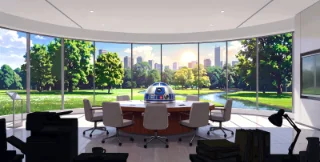
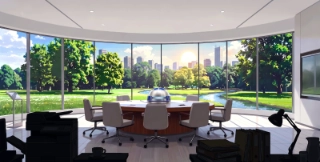
Update items rooms

Changed region(s): [[0.4375, 0.4938, 0.5625, 0.679]]

diff --git a/src/config.ts b/src/config.ts
@@ -76,15 +76,15 @@ export type ItemDef = { x: number; y: number; z: number; width: number };
 export const OFFICE_ITEMS: Record<string, ItemDef> = {
   office_phone: { x: -2.45, y: -0.92, z: 4.85, width: 1.1 },
   office_books: { x: -1.5, y: -0.89, z: 4.85, width: 1 },
-  office_computer: { x: 1.85, y: -0.85, z: 4.85, width: 1.4 },
+  office_computer: { x: 1.8, y: -0.825, z: 4.85, width: 1.45 },
 };
 
 export const BREAK_ITEMS: Record<string, ItemDef> = {
-  break_dvd: { x: -1.65, y: -3.35, z: 4.85, width: 1.2 },
+  break_dvd: { x: -1.65, y: -3.4, z: 4.85, width: 1.2 },
   break_books: { x: 2.45, y: -2.43, z: 4.85, width: 1 },
   break_console: { x: 0.15, y: -2.465, z: 4.85, width: 1 },
 };
 
 export const MEETING_ITEMS: Record<string, ItemDef> = {
-  meeting_robot: { x: -0.025, y: -0.925, z: 4.85, width: 2 },
+  meeting_robot: { x: -0.06, y: -1.09, z: 4.85, width: 1.5 },
 };

diff --git a/src/components/main/overlay/RoomThumbnails.module.css b/src/components/main/overlay/RoomThumbnails.module.css
@@ -3,12 +3,12 @@
   left: 0;
   right: 0;
   top: 30px;
-  z-index: 50;
   display: flex;
   justify-content: center;
   gap: 30px;
   perspective: 800px;
   transition: transform 200ms ease-in-out;
+  z-index: 60;
 }
 
 .hidden {

diff --git a/src/components/main/overlay/UiOverlay.module.css b/src/components/main/overlay/UiOverlay.module.css
@@ -2,8 +2,8 @@
   position: fixed;
   top: 24px;
   right: 24px;
-  z-index: 50;
   display: flex;
   flex-direction: column;
   gap: 12px;
+  z-index: 50;
 }
